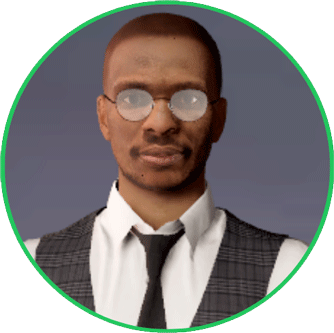
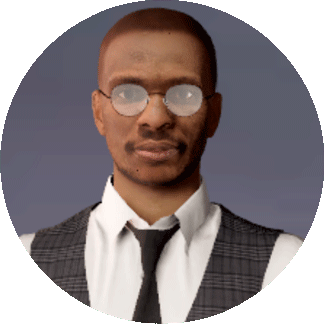
iiif

diff --git a/resources/views/filament/resources/exam-resource/pages/assess-gen.blade.php b/resources/views/filament/resources/exam-resource/pages/assess-gen.blade.php
@@ -241,16 +241,19 @@
     </form>
     <x-filament-actions::modals />
 </div>
+@if ($record->type=='0')
+
+
         <style>
             #kj5 span {font-size:10px !important; }
-            #kj5 img, #rr12,#rr13 {border-color:green !important; }
         </style>
 <div onmousedown="return false" class='flex' onselectstart="return false" onpaste="return false;" onCopy="return false" onCut="return false" onDrag="return false" onDrop="return false" autocomplete=off>
     <div class="flex gap-6 p-2 bg-white shadow-sm select-none shrink rounded-xl ring-1 ring-gray-950/5 dark:bg-gray-900 dark:ring-white/10">
         <div class="shrink-0">
             <div class='flex flex-col' id='kj5'>
                 <div class='flex flex-col justify-center text-center text-primary-500'>
-                <img src='{{asset('img/ac.png')}}'class="row-span-2 mx-auto border-2 rounded-full w-11 h-11" />
+                <img style="--c-400:var(--primary-400);--c-500:var(--primary-500);--c-600:var(--primary-600);"
+                src='{{asset('img/ac.png')}}' class="row-span-2 mx-auto rounded-full ring-custom-600 dark:ring-custom-400 ring-2 w-11 h-11" />
                 <div ><span style="font-size:10px">AI Coach</span></div>
                 </div>
                 <div class='self-center '>
@@ -262,8 +265,8 @@
             </div>
         </div>
         <div class="flex flex-col gap-3 grow">
-            <div
-            id='rr12' class="p-4 border-2 text-sm dark:bg-gray-950 bg-gray-50
+            <div style="--c-400:var(--primary-400);--c-500:var(--primary-500);--c-600:var(--primary-600);"
+            id='rr12' class="p-4 text-sm dark:bg-gray-950 bg-gray-50 ring-custom-600 dark:ring-custom-400 ring-2
             @if (empty($iatext))
                 hidden
             @endif
@@ -279,9 +282,10 @@
                             $data.text = current.substring(0, $data.charIndex);
                             $data.charIndex += 1;
                     if($data.charIndex>=$wire.iatext.length) {$wire.iati=false; $data.charIndex=0;}  }}, $data.typeSpeed)">
-            <span x-text="text"></span>
+            <span x-html="text"></span>
             </div>
-            <div id='rr13'  class="p-4 border-2
+            <div id='rr13' style="--c-400:var(--primary-400);--c-500:var(--primary-500);--c-600:var(--primary-600);"
+             class="p-4 ring-custom-600 dark:ring-custom-400 ring-2
             @if (empty($iatext2))
                 hidden
             @endif
@@ -297,10 +301,10 @@
                             $data.text = current.substring(0, $data.charIndex);
                             $data.charIndex += 1;
                     if($data.charIndex>=$wire.iatext2.length) {$wire.iati2=false; $data.charIndex=0;}  }}, $data.typeSpeed)">
-            <span x-text="text"></span>
+            <span x-html="text"></span>
             </div>
         </div>
     </div>
 </div>
-
+@endif
 </x-filament-panels::page>

diff --git a/resources/views/filament/widgets/adm-ovv.blade.php b/resources/views/filament/widgets/adm-ovv.blade.php
@@ -1,0 +1,56 @@
+<x-filament-widgets::widget class="mx-auto fi-filament-info-widget">
+    <x-filament::section>
+        <div class="flex gap-x-6 gap-y-3 ">
+            <div class="grid gap-y-2 ">
+                <div class="flex items-center gap-x-2">
+                    <span class="text-sm font-medium text-gray-500 dark:text-gray-400">
+                        Classes
+                    </span>
+                </div>
+                <div class="text-3xl font-semibold tracking-tight text-gray-950 dark:text-white">
+                    {{$va}}
+                </div>
+            </div>
+            <div class="grid gap-y-2">
+                <div class="flex items-center gap-x-2">
+                    <span class="text-sm font-medium text-gray-500 dark:text-gray-400">
+                       Certifications
+                    </span>
+                </div>
+                <div class="text-3xl font-semibold tracking-tight text-gray-950 dark:text-white">
+                    {{$co}}
+                </div>
+            </div>
+            <div class="grid gap-y-2">
+                <div class="flex items-center gap-x-2">
+                    <span class="text-sm font-medium text-gray-500 dark:text-gray-400">
+                       Modules
+                    </span>
+                </div>
+                <div class="text-3xl font-semibold tracking-tight text-gray-950 dark:text-white">
+                    {{$mo}}
+                </div>
+            </div>
+            <div class="grid gap-y-2">
+                <div class="flex items-center gap-x-2">
+                    <span class="text-sm font-medium text-gray-500 dark:text-gray-400">
+                       Questions
+                    </span>
+                </div>
+                <div class="text-3xl font-semibold tracking-tight text-gray-950 dark:text-white">
+                    {{$qu}}
+                </div>
+            </div>
+            <div class="grid gap-y-2">
+                <div class="flex items-center gap-x-2">
+                    <span class="text-sm font-medium text-gray-500 dark:text-gray-400">
+                       AI Calls
+                    </span>
+                </div>
+                <div class="text-3xl font-semibold tracking-tight text-gray-950 dark:text-white">
+                    {{$iac}}
+                </div>
+            </div>
+        </div>
+    </x-filament::section>
+</x-filament-widgets::widget>

diff --git a/vendor/composer/autoload_static.php b/vendor/composer/autoload_static.php
@@ -49,6 +49,7 @@ class ComposerStaticInit9c491b8531eec05ba41a11d9276a5749
         'a1cfe24d14977df6878b9bf804af2d1c' => __DIR__ . '/..' . '/nunomaduro/collision/src/Adapters/Phpunit/Autoload.php',
         'ec07570ca5a812141189b1fa81503674' => __DIR__ . '/..' . '/phpunit/phpunit/src/Framework/Assert/Functions.php',
         '320163ac6b93aebe3dc25b60a0533d56' => __DIR__ . '/..' . '/spatie/laravel-ignition/src/helpers.php',
+        '559dba61bcaafa74db6aa5e7e8759117' => __DIR__ . '/../..' . '/app/Http/Helpers.php',
     );
 
     public static $prefixLengthsPsr4 = array (
@@ -803,6 +804,7 @@ class ComposerStaticInit9c491b8531eec05ba41a11d9276a5749
         'App\\Models\\Review' => __DIR__ . '/../..' . '/app/Models/Review.php',
         'App\\Models\\SMail' => __DIR__ . '/../..' . '/app/Models/SMail.php',
         'App\\Models\\User' => __DIR__ . '/../..' . '/app/Models/User.php',
+        'App\\Models\\UserClass' => __DIR__ . '/../..' . '/app/Models/UserClass.php',
         'App\\Models\\UsersCourse' => __DIR__ . '/../..' . '/app/Models/UsersCourse.php',
         'App\\Models\\UsersMail' => __DIR__ . '/../..' . '/app/Models/UsersMail.php',
         'App\\Models\\Vague' => __DIR__ . '/../..' . '/app/Models/Vague.php',
@@ -820,6 +822,7 @@ class ComposerStaticInit9c491b8531eec05ba41a11d9276a5749
         'App\\Policies\\QuestionPolicy' => __DIR__ . '/../..' . '/app/Policies/QuestionPolicy.php',
         'App\\Policies\\ReviewPolicy' => __DIR__ . '/../..' . '/app/Policies/ReviewPolicy.php',
         'App\\Policies\\SmailPolicy' => __DIR__ . '/../..' . '/app/Policies/SmailPolicy.php',
+        'App\\Policies\\UserClassPolicy' => __DIR__ . '/../..' . '/app/Policies/UserClassPolicy.php',
         'App\\Policies\\UserPolicy' => __DIR__ . '/../..' . '/app/Policies/UserPolicy.php',
         'App\\Policies\\UsersCoursePolicy' => __DIR__ . '/../..' . '/app/Policies/UsersCoursePolicy.php',
         'App\\Policies\\UsersMailPolicy' => __DIR__ . '/../..' . '/app/Policies/UsersMailPolicy.php',

diff --git a/vendor/composer/autoload_classmap.php b/vendor/composer/autoload_classmap.php
@@ -87,6 +87,7 @@ return array(
     'App\\Models\\Review' => $baseDir . '/app/Models/Review.php',
     'App\\Models\\SMail' => $baseDir . '/app/Models/SMail.php',
     'App\\Models\\User' => $baseDir . '/app/Models/User.php',
+    'App\\Models\\UserClass' => $baseDir . '/app/Models/UserClass.php',
     'App\\Models\\UsersCourse' => $baseDir . '/app/Models/UsersCourse.php',
     'App\\Models\\UsersMail' => $baseDir . '/app/Models/UsersMail.php',
     'App\\Models\\Vague' => $baseDir . '/app/Models/Vague.php',
@@ -104,6 +105,7 @@ return array(
     'App\\Policies\\QuestionPolicy' => $baseDir . '/app/Policies/QuestionPolicy.php',
     'App\\Policies\\ReviewPolicy' => $baseDir . '/app/Policies/ReviewPolicy.php',
     'App\\Policies\\SmailPolicy' => $baseDir . '/app/Policies/SmailPolicy.php',
+    'App\\Policies\\UserClassPolicy' => $baseDir . '/app/Policies/UserClassPolicy.php',
     'App\\Policies\\UserPolicy' => $baseDir . '/app/Policies/UserPolicy.php',
     'App\\Policies\\UsersCoursePolicy' => $baseDir . '/app/Policies/UsersCoursePolicy.php',
     'App\\Policies\\UsersMailPolicy' => $baseDir . '/app/Policies/UsersMailPolicy.php',

diff --git a/app/Filament/Widgets/AdminOverview.php b/app/Filament/Widgets/AdminOverview.php
@@ -1,0 +1,37 @@
+<?php
+
+namespace App\Filament\Widgets;
+
+use Filament\Widgets\Widget;
+
+class AdminOverview extends Widget
+{
+    protected static ?int $sort = -1;
+    protected static bool $isLazy = true;
+    protected static string $view = 'filament.widgets.adm-ovv';
+    protected int | string | array $columnSpan = 'full';
+
+    #[Locked]
+    public $va;
+    #[Locked]
+    public $co;
+    #[Locked]
+    public $mo;
+    #[Locked]
+    public $qu;
+    #[Locked]
+    public $iac;
+
+    public function mount(){
+
+        $this->va= \App\Models\Vague::count();
+        $this->co= \App\Models\Course::count();
+        $this->mo= \App\Models\Module::count();
+        $this->qu= \App\Models\Question::count();
+        $this->iac= \App\Models\User::all()->sum('ix');
+    }
+    public static function canView(): bool
+    {
+        return auth()->user()->ex==0 || auth()->user()->ex==1;
+    }
+}

diff --git a/app/Http/Helpers.php b/app/Http/Helpers.php
@@ -1,0 +1,23 @@
+<?php
+if (! function_exists('mtz')) {
+    function mtz() {
+        $timezones = [];
+
+        foreach (timezone_identifiers_list() as $timezone) {
+            $datetime = new \DateTime('now', new DateTimeZone($timezone));
+            $timezones[] = [
+                'sort' => str_replace(':', '', $datetime->format('P')),
+                'offset' => $datetime->format('P'),
+                'name' => str_replace('_', ' ', implode(', ', explode('/', $timezone))),
+                'timezone' => $timezone,
+            ];
+        }
+
+        usort($timezones, function($a, $b) {
+            return $a['sort'] - $b['sort'] ?: strcmp($a['name'], $b['name']);
+        });
+
+        return $timezones;
+    }
+}
+?>

diff --git a/app/Filament/Resources/ExamResource/Pages/AssessGen.php b/app/Filament/Resources/ExamResource/Pages/AssessGen.php
@@ -226,7 +226,7 @@ class AssessGen extends Page implements HasForms, HasActions
                     ->json();
                    // dd($response["choices"][0]["message"]["content"]);
                  if(is_array($response["choices"]))   {
-                    $this->iati=true;$this->iatext=$response["choices"][0]["message"]["content"].". \n hhh";
+                    $this->iati=true;$this->iatext=$response["choices"][0]["message"]["content"].".";
                     \App\Models\User::where('id',auth()->id())->update(['ix'=>auth()->user()->ix+1]);
                    // dd(auth()->user()->ix);
                 }

diff --git a/resources/views/filament/pages/actions/iamod.blade.php b/resources/views/filament/pages/actions/iamod.blade.php
@@ -2,10 +2,11 @@
 <style>
             #dd1 {
                 width:100px !important;
-                border-color:green;
+
                 }
         </style>
-<img id='dd1' src='{{asset('img/ac.png')}}' class="mx-auto border-2 rounded-full" />
+<img id='dd1' style="--c-400:var(--primary-400);--c-500:var(--primary-500);--c-600:var(--primary-600);"
+src='{{asset('img/ac.png')}}' class="mx-auto rounded-full ring-custom-600 dark:ring-custom-400 ring-2" />
 <p class="mt-2 text-sm text-center text-gray-500 fi-modal-description dark:text-gray-400">
     Hi {{ explode(' ',auth()->user()->name)[0]}}, {{$txt}}
 </p>

diff --git a/vendor/composer/autoload_files.php b/vendor/composer/autoload_files.php
@@ -48,4 +48,5 @@ return array(
     'a1cfe24d14977df6878b9bf804af2d1c' => $vendorDir . '/nunomaduro/collision/src/Adapters/Phpunit/Autoload.php',
     'ec07570ca5a812141189b1fa81503674' => $vendorDir . '/phpunit/phpunit/src/Framework/Assert/Functions.php',
     '320163ac6b93aebe3dc25b60a0533d56' => $vendorDir . '/spatie/laravel-ignition/src/helpers.php',
+    '559dba61bcaafa74db6aa5e7e8759117' => $baseDir . '/app/Http/Helpers.php',
 );
